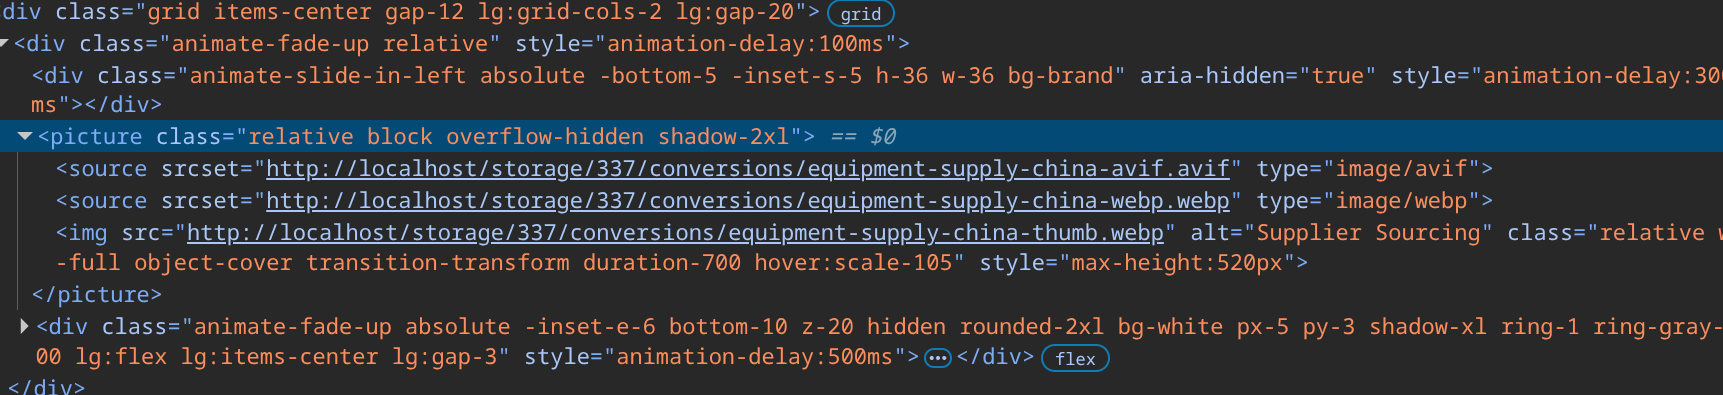
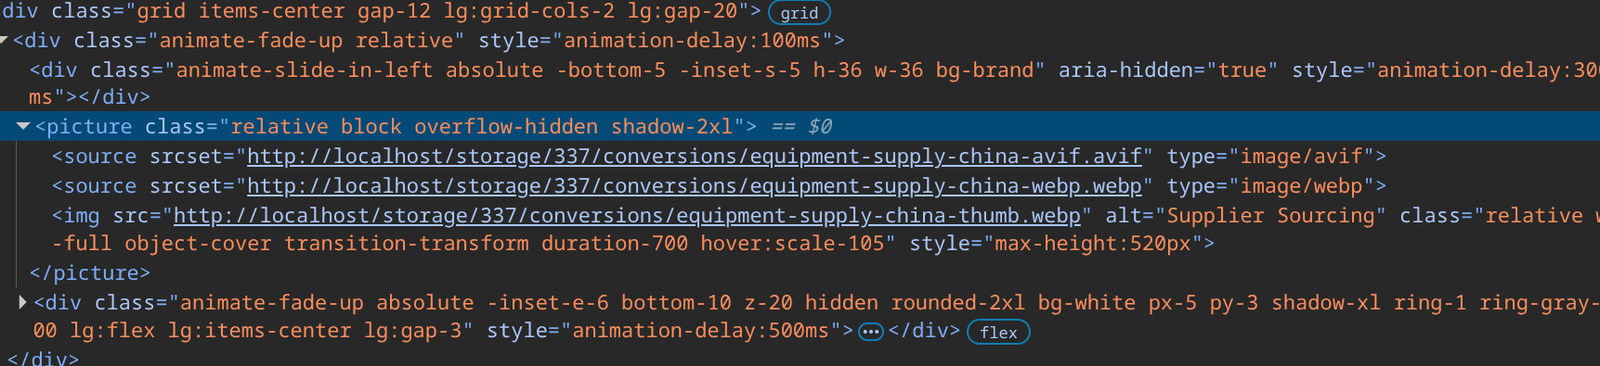
Compress screenshots for README file

diff --git a/README.md b/README.md
@@ -4,7 +4,7 @@ A multilingual B2B web platform built with **Laravel 12** and a modular architec
 
 **Author:** Alexander Bet
 
-![Home page](screenshots-for-readme-only/home-full-page.png)
+![Home page](screenshots-for-readme-only/home-full-page.jpg)
 
 ---
 
@@ -28,17 +28,17 @@ A multilingual B2B web platform built with **Laravel 12** and a modular architec
 
 | Russian | English |
 |---------|---------|
-| ![Services RU](screenshots-for-readme-only/services-page-with-hero-section-in-russian.png) | ![Services EN](screenshots-for-readme-only/services-full-page-in-english.png) |
+| ![Services RU](screenshots-for-readme-only/services-page-with-hero-section-in-russian.jpg) | ![Services EN](screenshots-for-readme-only/services-full-page-in-english.jpg) |
 
 **Arabic — full RTL layout**
 
-![Services AR](screenshots-for-readme-only/services-page-with-hero-section-in-arabic.png)
+![Services AR](screenshots-for-readme-only/services-page-with-hero-section-in-arabic.jpg)
 
 ---
 
 ### Lead Capture Popup
 
-![Lead popup](screenshots-for-readme-only/popup-form-with-services.png)
+![Lead popup](screenshots-for-readme-only/popup-form-with-services.jpg)
 
 Service selector, email + phone with country code picker, Alpine.js — no page reload.
 
@@ -46,7 +46,7 @@ Service selector, email + phone with country code picker, Alpine.js — no page 
 
 ### Admin Panel (Moonshine 4)
 
-![Admin panel](screenshots-for-readme-only/admin-panel-screenshot.png)
+![Admin panel](screenshots-for-readme-only/admin-panel-screenshot.jpg)
 
 Full CRUD for services, articles, categories, leads, personnel, pricing, and site settings.
 
@@ -70,7 +70,7 @@ Images are converted to WebP by Spatie Media Library on upload. Blade outputs `<
 
 ### Performance
 
-![Speed test](screenshots-for-readme-only/speed-test-screenshot.png)
+![Speed test](screenshots-for-readme-only/speed-test-screenshot.jpg)
 
 Measured with DebugBear on local Docker: **TTFB 109 ms · FCP 184 ms · LCP 184 ms · CLS 0.08**.
 